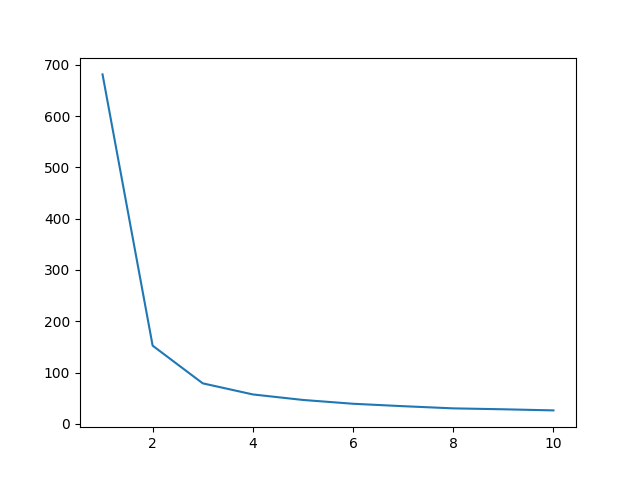
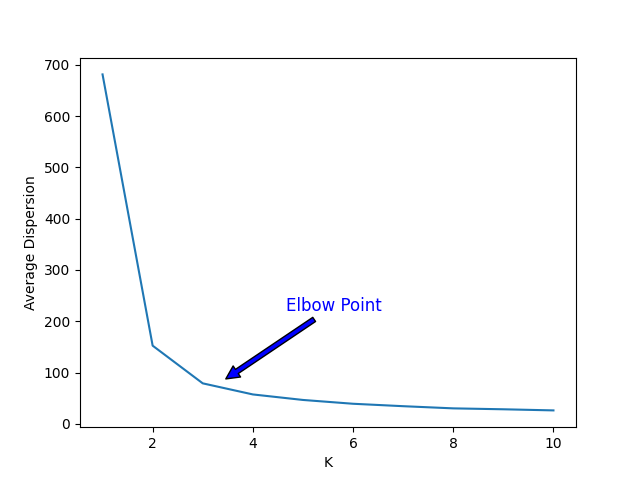
Updated bonus.py code so it annotates

diff --git a/bonus.py b/bonus.py
@@ -3,6 +3,7 @@ import matplotlib.pyplot as plt
 import numpy as np
 from sklearn.cluster import KMeans
 from sklearn import datasets
+from kneed import KneeLocator
 
 
 def main():
@@ -18,7 +19,19 @@ def main():
                     np.power(np.subtract(np.multiply(point, np.ones((centroids.shape[0], points.shape[1]))), centroids),
                              2), axis=1)))
         plot = np.append(plot, distances.sum())
+    
+    kn = KneeLocator([i for i in range(1,11)], plot, curve='convex', direction='decreasing')
+    elbow = (kn.knee, plot[kn.knee])
+    plt.annotate('Elbow Point', xy=elbow, xytext=(60, 60),
+            textcoords='offset points',
+            color='b', size='large',
+            arrowprops=dict(
+                arrowstyle='simple,tail_width=0.3,head_width=0.8,head_length=0.8',
+                facecolor='b', shrinkB=20))
+
     plt.plot(ks, plot)
+    plt.xlabel('K')
+    plt.ylabel('Average Dispersion')
     plt.savefig('elbow.png')
 
 
